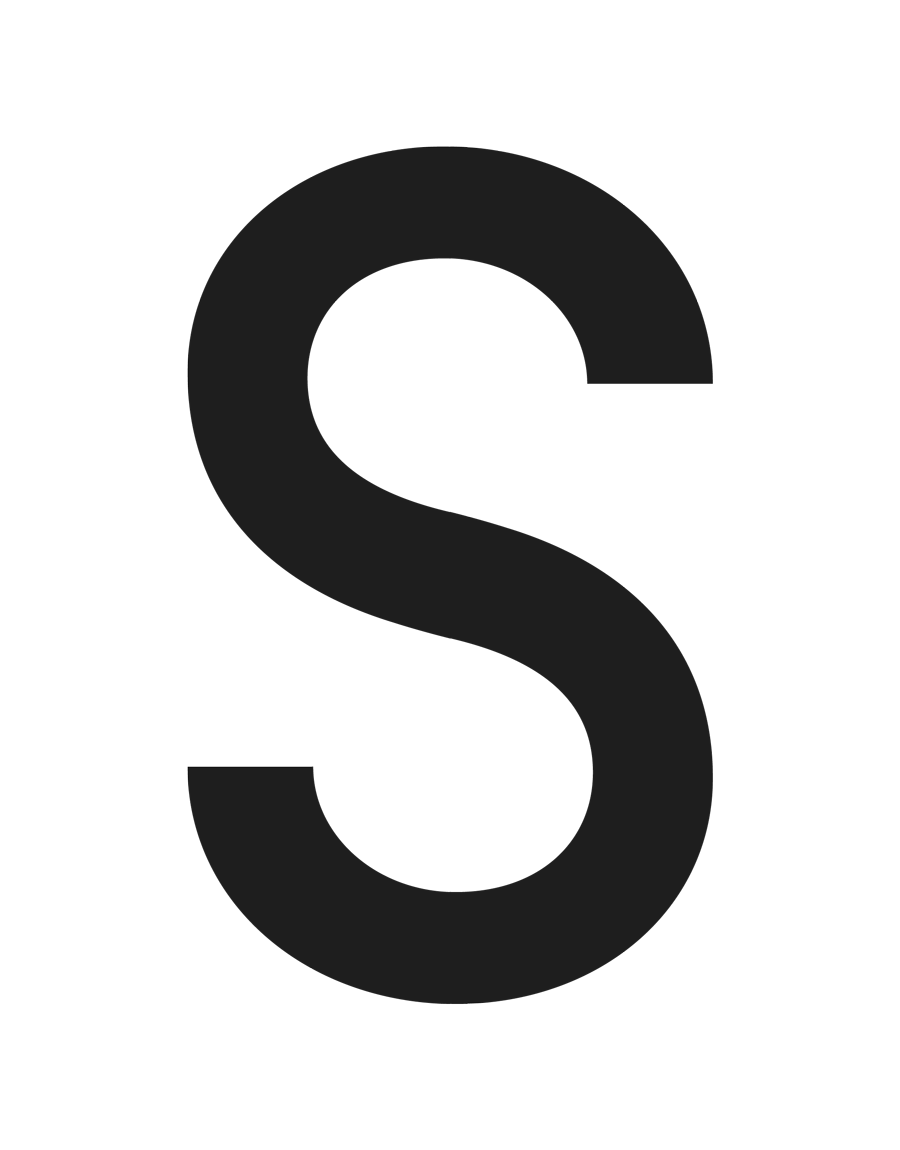
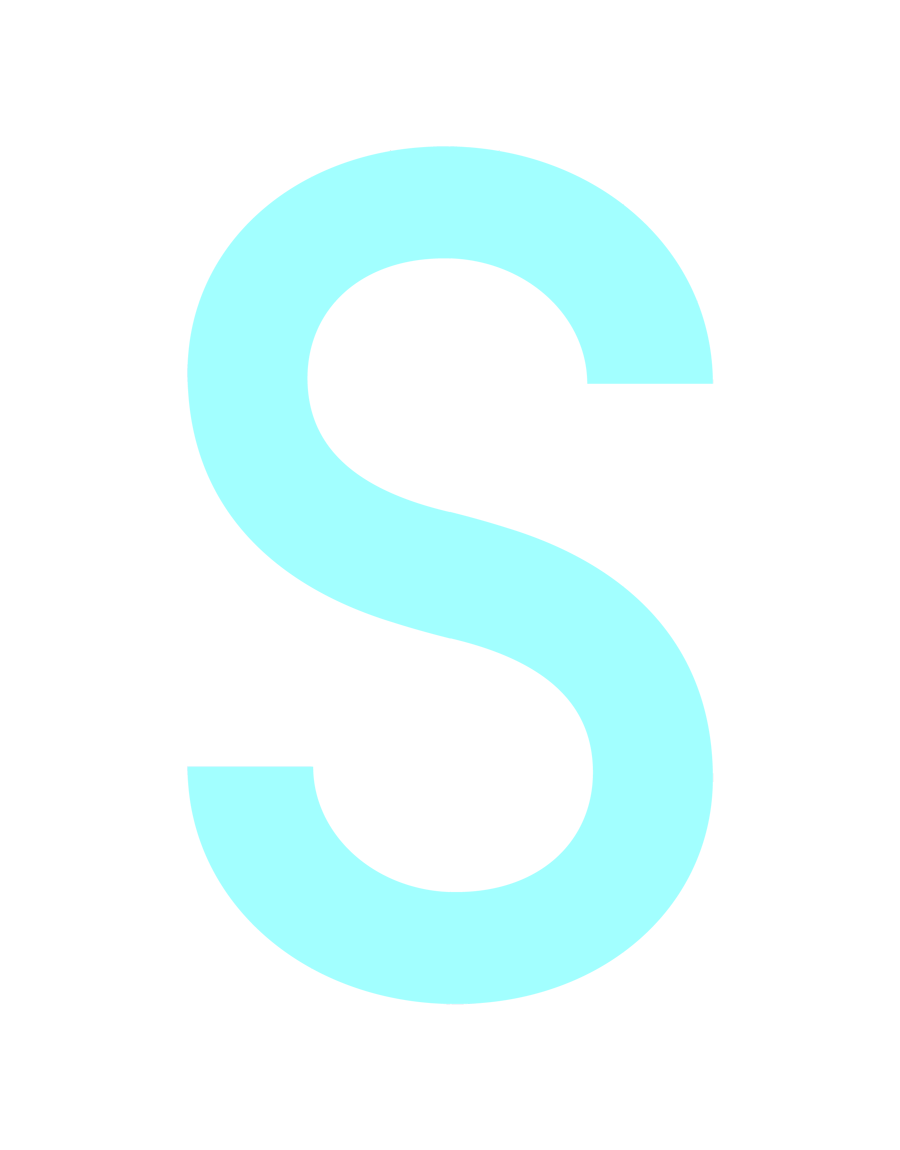
Theme Changes
Theme Changes

Changed region(s): [[0.1867, 0.1217, 0.8089, 0.8826]]

diff --git a/src/Styles/index.css b/src/Styles/index.css
@@ -22,6 +22,8 @@
 }
 
 .stop{
+  cursor: pointer;
+  border: 0.5rem;
   width: 6rem;
   height: 3rem;
   margin-top: 20px;
@@ -29,29 +31,32 @@
   background-repeat: no-repeat;
   background-size: contain;
   background-position: center;
+  background-color: #dff8f800;
 }
 
-.changeMode{
-  width: 6rem;
-  height: 3rem;
-  margin-top: 20px;
-  background-image: url('./../img/change.png');
-  background-repeat: no-repeat;
-  background-size: contain;
-  background-position: center;
-  align-items: center;
+.stop:hover{
+  background-color: #dff8f817;
 }
+
+
 
 .start-context{
+  cursor: pointer;
+  border: 0.5rem;
   width: 6rem;
   height: 3rem;
   margin-top: 20px;
   background-image: url('./../img/myPlay2.png');
-  background-color: white;
+  background-color: #dff8f800;
   background-repeat: no-repeat;
   background-size: contain;
   background-position: center;
   text-align: center;
+  color: #fafafa;
+}
+
+.start-context:hover{
+  background-color: #dff8f817;
 }
 
 /* base styles */
@@ -413,6 +418,7 @@ h4{
   display: -webkit-inline-box;
 }
 .mute-button{
+  cursor: pointer;
   width: 40px;
   height: 30px;
   margin-top: 20px;
@@ -420,9 +426,17 @@ h4{
   background-repeat: no-repeat;
   background-size: contain;
   background-position: center;
+  cursor: pointer;
+  border: 0.5rem;
+
+}
+
+.mute-button:hover{
+  background-color: #dff8f817;
 }
 
 .solo-button{
+  cursor: pointer;
   width: 40px;
   height: 30px;
   margin-top: 20px;
@@ -430,6 +444,13 @@ h4{
   background-repeat: no-repeat;
   background-size: contain;
   background-position: center;
+  cursor: pointer;
+  border: 0.5rem;
+  
+}
+
+.solo-button:hover{
+  background-color: #dff8f817;
 }
 
 .active{
@@ -437,12 +458,15 @@ h4{
 }
 
 .inactive{
-  background-color:white;
+  background-color: #dff8f800;
+  
+  
 }
 
 /* x2 /2 buttons style*/
 
 .per-due{
+  cursor: pointer;
   width: 40px;
   height: 30px;
   margin-top: 15px;
@@ -454,6 +478,7 @@ h4{
 }
 
 .diviso-due{
+  cursor: pointer;
   width: 40px;
   height: 30px;
   margin-top: 15px;
@@ -461,6 +486,7 @@ h4{
   background-repeat: no-repeat;
   background-size: cover;
   background-position: center;
+  background-color: #dff8f800;
 }
 
 .Limit_up{
@@ -470,3 +496,18 @@ h4{
 .Limit_down{
   filter: opacity(60%);
 }
+
+
+
+
+
+
+
+
+
+
+
+
+
+
+

diff --git a/src/Components/SequencerElements/EuclideanSequencer.js b/src/Components/SequencerElements/EuclideanSequencer.js
@@ -1,4 +1,4 @@
-import React, { useContext, useEffect, useState } from "react";
+import React, { useContext, useEffect} from "react";
 import { Context, Transport } from "tone";
 import onSequenceListChange from "./../../Functions/onSequenceListChange";
 import { activeColor, macroColor } from "./../../Default/colori";
@@ -11,7 +11,7 @@ import StopButton from "./TransportControls/StopButton";
 import initializeToneSwing from "../../Functions/initializeToneSwing";
 import startSequences from "../../Functions/startSequences";
 import colora from "../../Functions/colora";
-import "./../../../node_modules/react-dropdown/style.css";
+
 
 const EuclideanSequencer = () => {
   const {
@@ -27,6 +27,10 @@ const EuclideanSequencer = () => {
     patternArrayList,
     currentTransportState,
   } = useContext(EnvironmentContext);
+
+
+
+
 
   console.log("envDefault ");
   console.log(envDefault);

diff --git a/src/Components/SequencerElements/PatternControls/PatternDropDown.jsx b/src/Components/SequencerElements/PatternControls/PatternDropDown.jsx
@@ -2,6 +2,8 @@ import { useEffect, useState } from "react";
 import Dropdown from "react-dropdown";
 import { Transport } from "tone";
 import EuclideanLine from "../../../EuclideanLine";
+import "./../../../../node_modules/react-dropdown/style.css"
+
 
 
 const PatternDropDown = ({id, patternNames, defaultPatterns, linesList, setLinesList}) => {
@@ -42,7 +44,7 @@ const PatternDropDown = ({id, patternNames, defaultPatterns, linesList, setLines
 
 
 
-    return ( <div className="drop-down-cont">
+    return ( <div className="drop-down-cont" >
         <Dropdown options={patternNames}
           onChange={(e) => handleChange(e.label)}
           value={chosenPatternName}

diff --git a/src/Default/colori.js b/src/Default/colori.js
@@ -1,4 +1,4 @@
-const activeColor = ["rgb(70, 42, 255)", "rgb(136, 243, 21)", "rgb(243, 240, 21)", "rgb(21, 243, 240)"];
+const activeColor = ["rgb(70, 42, 255, 0.6)", "rgb(136, 243, 21, 0.6)", "rgb(243, 240, 21, 0.6)", "rgb(21, 243, 240, 0.6)"];
 const macroColor = "rgb(241, 53, 109)";
 const nonActiveColor = "rgba(100, 100, 100, 0.58)";
 const currentColor = "white";

diff --git a/src/Components/SequencerElements/PatternControls/PatternControlsList.js b/src/Components/SequencerElements/PatternControls/PatternControlsList.js
@@ -2,7 +2,6 @@ import PatternControls from "./PatternControls";
 import CircleContainer from "./CircleContainer";
 import OtherControls from "./OtherControls";
 import { useEffect, useState } from "react";
-import "./../../../../node_modules/react-dropdown/style.css";
 import PatternDropDown from "./PatternDropDown";
 
 const PatternControlsList = ({

diff --git a/src/Components/SequencerElements/PatternControls/PulseSlider.js b/src/Components/SequencerElements/PatternControls/PulseSlider.js
@@ -9,6 +9,10 @@ const PulseSlider = ({
   currentTransportState,
   setCurrentTransportState,
 }) => {
+  const ciao = document.getElementsByClassName('Dropdown-menu');
+  console.log("AH ALLORA C'è");
+  console.log(ciao);
+
   const pulseSliderRef = useRef(null);
 
   const handleChange = (sliderValue) => {
